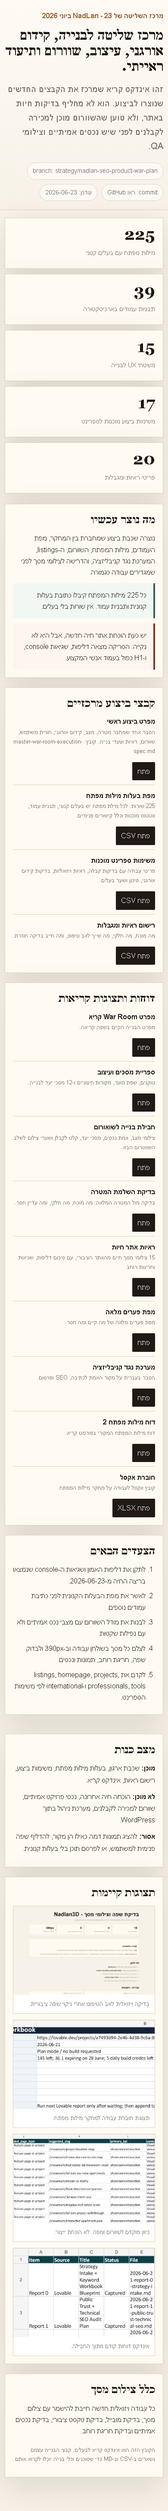
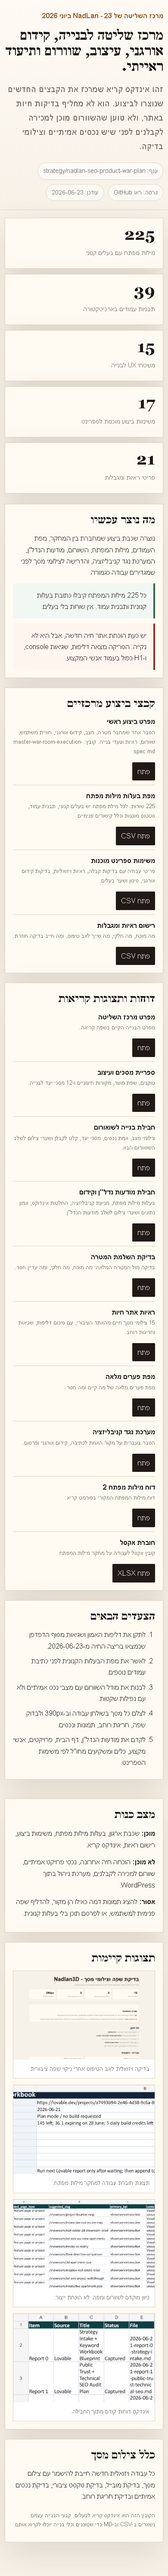
docs: add listings seo execution packet

Changed region(s): [[0.0308, 0.0, 0.9846, 0.9654], [0.5538, 0.5294, 0.5846, 0.5606], [0.5538, 0.436, 0.5846, 0.4671]]

diff --git a/strategy/war-room/listing-seo-execution-packet-rtl.html b/strategy/war-room/listing-seo-execution-packet-rtl.html
@@ -1,0 +1,174 @@
+<!doctype html>
+<html lang="he" dir="rtl">
+<head>
+  <meta charset="utf-8">
+  <meta name="viewport" content="width=device-width, initial-scale=1">
+  <title>NadLan - חבילת ביצוע למודעות נדל"ן וקידום אורגני</title>
+  <style>
+    :root{--paper:#f7f1e8;--panel:#fffaf2;--ink:#211915;--muted:#74685f;--line:#e2d6c7;--green:#0f332c;--gold:#a7793b;--red:#8f2e24;--soft:#efe5d7}
+    *{box-sizing:border-box}
+    body{margin:0;background:var(--paper);color:var(--ink);font-family:Arial,"Noto Sans Hebrew",sans-serif;line-height:1.75}
+    .wrap{max-width:1180px;margin:0 auto;padding:42px 24px 72px}
+    header{padding:48px 0 34px;border-bottom:1px solid var(--line);text-align:center}
+    .eyebrow{font-size:13px;color:var(--gold);font-weight:700;letter-spacing:0}
+    h1{font-family:Georgia,"Times New Roman",serif;font-size:clamp(34px,6vw,76px);line-height:1.03;margin:18px 0 16px;letter-spacing:0}
+    h2{font-family:Georgia,"Times New Roman",serif;font-size:clamp(26px,3vw,42px);line-height:1.16;margin:0 0 18px;letter-spacing:0}
+    h3{font-size:20px;margin:0 0 10px}
+    p{margin:0 0 14px}
+    a{color:var(--green);font-weight:700}
+    .intro{max-width:850px;margin:0 auto;color:var(--muted);font-size:18px}
+    .stats{display:grid;grid-template-columns:repeat(5,1fr);gap:12px;margin:28px 0}
+    .stat{background:var(--panel);border:1px solid var(--line);padding:20px;text-align:center}
+    .stat strong{display:block;font-family:Georgia,"Times New Roman",serif;font-size:38px}
+    section{margin-top:28px;background:var(--panel);border:1px solid var(--line);padding:28px}
+    .grid{display:grid;grid-template-columns:1fr 1fr;gap:18px}
+    .three{display:grid;grid-template-columns:repeat(3,1fr);gap:18px}
+    .card{background:#fffdf8;border:1px solid var(--line);padding:20px;min-height:100%}
+    .ok{border-right:5px solid var(--green)}
+    .warn{border-right:5px solid var(--gold)}
+    .bad{border-right:5px solid var(--red)}
+    .shot{background:#fff;border:1px solid var(--line);padding:12px}
+    .shot img{display:block;width:100%;height:auto;border:1px solid var(--line);background:#f4eadc}
+    .shot img.crop{height:620px;object-fit:cover;object-position:top}
+    .caption{font-size:14px;color:var(--muted);margin-top:10px}
+    .flow{display:grid;grid-template-columns:repeat(5,1fr);gap:10px;margin-top:14px}
+    .step{border:1px solid var(--line);background:var(--soft);padding:14px;min-height:118px}
+    .step b{display:block;color:var(--green);margin-bottom:6px}
+    table{width:100%;border-collapse:collapse;background:#fffdf8}
+    th,td{border:1px solid var(--line);padding:12px;text-align:right;vertical-align:top}
+    th{background:var(--soft);font-weight:800}
+    .pill{display:inline-block;border:1px solid var(--line);background:#fffdf8;padding:5px 9px;margin:3px;font-size:13px}
+    .source-list{display:grid;grid-template-columns:repeat(3,1fr);gap:10px}
+    .source-list a{display:block;border:1px solid var(--line);background:#fffdf8;padding:12px;text-decoration:none}
+    .small{font-size:14px;color:var(--muted)}
+    @media(max-width:760px){
+      .wrap{padding:24px 16px 48px}
+      header{text-align:right;padding-top:28px}
+      .stats,.grid,.three,.flow,.source-list{grid-template-columns:1fr}
+      section{padding:18px}
+      .step{min-height:auto}
+      .shot img.crop{height:760px}
+      table,thead,tbody,tr,td{display:block;width:100%}
+      thead{display:none}
+      tr{margin-bottom:12px;border:1px solid var(--line);background:#fffdf8}
+      td{border:0;border-bottom:1px solid var(--line)}
+      td:last-child{border-bottom:0}
+      td[data-label]::before{content:attr(data-label);display:block;font-weight:800;color:var(--green);margin-bottom:4px}
+    }
+  </style>
+</head>
+<body>
+  <div class="wrap">
+    <header>
+      <div class="eyebrow">2026-06-23 - NadLan - מודעות נדל"ן וקידום אורגני</div>
+      <h1>חבילת ביצוע שמונעת קניבליזציה לפני שמגדילים את מודעות הנדל"ן.</h1>
+      <p class="intro">NadLan לא בורח ממילות כסף. אבל כל עמוד כסף, מודעה, עיר, מדריך, כלי ואיש מקצוע חייבים בעלים קנוני, אמת נתונים ושער פרסום. אחרת עמוד חלש יכול לפגוע בעמוד שמכניס כסף.</p>
+    </header>
+
+    <div class="stats">
+      <div class="stat"><strong>225</strong><span>מילות מפתח ממופות</span></div>
+      <div class="stat"><strong>117</strong><span>עמודי כסף</span></div>
+      <div class="stat"><strong>108</strong><span>עמודי תמיכה</span></div>
+      <div class="stat"><strong>39</strong><span>תבניות עמוד</span></div>
+      <div class="stat"><strong>31</strong><span>עדיפות ראשונה</span></div>
+    </div>
+
+    <section>
+      <h2>מה ראינו בצילומי מודעות הנדל"ן</h2>
+      <div class="grid">
+        <div class="shot">
+          <img class="crop" src="../../handoff/codex/2026-06-23-public-language-cleanup/screenshots/listings--he--desktop-1440.png" alt="עמוד מודעות נדלן בדסקטופ">
+          <p class="caption">דסקטופ: יש מבנה כרטיסים ופילטרים בסיסיים, אבל התמונות והאספקה עדיין לא מוכחות כמלאי ציבורי אמיתי.</p>
+        </div>
+        <div class="shot">
+          <img class="crop" src="../../handoff/codex/2026-06-23-public-language-cleanup/screenshots/listings--he--mobile-390.png" alt="עמוד מודעות נדלן במובייל">
+          <p class="caption">מובייל: אין גלישה צדדית נראית, אבל חסרים מקור תמונה, טריות, מקור זמינות, ופירוט אמון שמאפשר להפוך את זה למנוע קידום.</p>
+        </div>
+      </div>
+    </section>
+
+    <section>
+      <h2>החלטת מוצר</h2>
+      <div class="grid">
+        <div class="card ok">
+          <h3>מה כן נבנה</h3>
+          <p>שוק נדל"ן עם עמודי כסף קנוניים, כרטיסי נכס אמינים, פילטרים שימושיים, דפי עיר ושכונה, דפי נכס, מפת קישורים פנימית ושערי פרסום לפני כל תוכן חדש.</p>
+          <span class="pill">בעלים קנוני</span>
+          <span class="pill">מקור נתונים</span>
+          <span class="pill">טריות</span>
+          <span class="pill">אמת תמונה</span>
+        </div>
+        <div class="card bad">
+          <h3>מה לא נבנה</h3>
+          <p>לא פותחים אינסוף עמודי פילטרים, לא מאנדקסים עמודים ריקים, לא משתמשים בתמונות כלליות כאילו הן הנכס, ולא נותנים לכותב או לכלי כתיבה לבחור מילת מפתח לבד.</p>
+        </div>
+      </div>
+    </section>
+
+    <section>
+      <h2>מסלול בנייה נכון</h2>
+      <div class="flow">
+        <div class="step"><b>01 רישום מילות מפתח</b>כל יעד מקבל keyword_id, בעלים קנוני וסטטוס מוכנות.</div>
+        <div class="step"><b>02 עמודי כסף</b>בונים רק כתובות קנוניות עם אספקה או ערך אמיתי.</div>
+        <div class="step"><b>03 פילטרים</b>פילטרים הם כלי שימוש. רק שילובים מאושרים הופכים לעמודים מאונדקסים.</div>
+        <div class="step"><b>04 כרטיסי אמון</b>כל כרטיס מציג מקור, טריות, סטטוס תמונה ופעולה ברורה.</div>
+        <div class="step"><b>05 שער צילום</b>כל שינוי נשמר עם צילומי 1440 ו־390 ובדיקת טקסט וקישורים.</div>
+      </div>
+    </section>
+
+    <section>
+      <h2>ספירת סיכון נוכחית</h2>
+      <div class="three">
+        <div class="card warn"><h3>114 משפטי</h3><p>שורות דורשות בדיקה משפטית או מקצועית לפני שהן יכולות להיות תוכן ציבורי חזק.</p></div>
+        <div class="card warn"><h3>64 מקור רשמי</h3><p>שורות מחכות למקור רשמי או אמין. בלי זה אסור להציג עובדות חזקות מדי.</p></div>
+        <div class="card warn"><h3>47 אימות</h3><p>שורות דורשות אימות אספקה, נתונים או כוונת חיפוש לפני אינדוקס.</p></div>
+      </div>
+    </section>
+
+    <section>
+      <h2>מסכי יעד לבנייה</h2>
+      <table>
+        <thead><tr><th>מסך</th><th>מה המשתמש רואה</th><th>מה חייב להיות מאחורי הקלעים</th><th>שער קידום</th></tr></thead>
+        <tbody>
+          <tr><td data-label="מסך">עמוד קנייה ראשי</td><td data-label="מה המשתמש רואה">חיפוש, מלאי, ערים מובילות, אמון, מדריכים וכלים.</td><td data-label="מאחורי הקלעים">בעלים קנוני, sitemap, אספקה, קישורים לעיר ושכונה.</td><td data-label="שער קידום">כתובת אחת בלבד למילת הכסף הראשית.</td></tr>
+          <tr><td data-label="מסך">עמוד עיר</td><td data-label="מה המשתמש רואה">דירות בעיר, נתוני שוק, פרויקטים, אנשי מקצוע ומדריכים.</td><td data-label="מאחורי הקלעים">אספקת עיר, טריות, canonical, קישורים לתמיכה.</td><td data-label="שער קידום">תמיכה חוזרת לעמוד העיר, לא מתחרה בו.</td></tr>
+          <tr><td data-label="מסך">כרטיס נכס</td><td data-label="מה המשתמש רואה">מחיר, חדרים, שטח, מיקום, תמונה, מקור ופעולה.</td><td data-label="מאחורי הקלעים">מקור תמונה, מקור מחיר, תאריך עדכון, סטטוס תשלום.</td><td data-label="שער קידום">הכרטיס לא מייצר מילת מפתח מתחרה.</td></tr>
+          <tr><td data-label="מסך">דף נכס</td><td data-label="מה המשתמש רואה">מידע מלא, תמונות, מפה, פנייה, אמון ותוכן סביבתי.</td><td data-label="מאחורי הקלעים">listing_id, keyword_id, schema, מקור, פנייה, מדידה.</td><td data-label="שער קידום">מאונדקס רק אם יש מספיק מידע אמין.</td></tr>
+          <tr><td data-label="מסך">מצב ריק</td><td data-label="מה המשתמש רואה">הסבר נקי, הרשמה לעדכון, קישורים חלופיים.</td><td data-label="מאחורי הקלעים">סף אספקה, סיבת noindex, יעד קנוני חלופי.</td><td data-label="שער קידום">עמוד דק לא נכנס לאינדקס.</td></tr>
+        </tbody>
+      </table>
+    </section>
+
+    <section>
+      <h2>כללי קידום שחייבים להיכנס לבנייה</h2>
+      <div class="three">
+        <div class="card ok"><h3>כתובת קנונית</h3><p>קישור פנימי, מפת אתר ותג קנוני חייבים להצביע לאותה כתובת קנונית.</p></div>
+        <div class="card ok"><h3>פילטרים</h3><p>שילובי פילטרים ריקים או דקים נשארים פנימיים או מחוץ לאינדקס. רק יעד מאושר הופך לעמוד כסף.</p></div>
+        <div class="card ok"><h3>סכמה</h3><p>סכמת JSON-LD משקפת רק תוכן גלוי, עדכני ואמיתי. אין סימון של תמונות או עובדות שלא רואים בעמוד.</p></div>
+      </div>
+    </section>
+
+    <section>
+      <h2>מקורות Google שנבדקו</h2>
+      <div class="source-list">
+        <a href="https://developers.google.com/search/docs/crawling-indexing/consolidate-duplicate-urls">Canonicalization</a>
+        <a href="https://developers.google.com/search/docs/specialty/ecommerce/designing-a-url-structure-for-ecommerce-sites">Ecommerce URL structure</a>
+        <a href="https://developers.google.com/search/docs/crawling-indexing/qualify-outbound-links">Outbound links</a>
+        <a href="https://developers.google.com/search/docs/appearance/structured-data/sd-policies">Structured data guidelines</a>
+        <a href="https://developers.google.com/search/docs/appearance/structured-data/intro-structured-data">Structured data intro</a>
+        <a href="https://developers.google.com/search/docs/specialty/international/localized-versions">Localized versions</a>
+      </div>
+      <p class="small">המקורות משמשים לקביעת שערי אינדוקס, canonical, noindex, קישורים ממומנים, סכמות ושפות. הם לא מחליפים את מפת הבעלות של NadLan.</p>
+    </section>
+
+    <section>
+      <h2>בדיקת קבלה לכל שינוי</h2>
+      <div class="three">
+        <div class="card"><h3>צילום</h3><p>דסקטופ 1440, מובייל 390, פילטר פתוח, פילטר פעיל, מצב ריק, כרטיס ממומן וכרטיס רגיל.</p></div>
+        <div class="card"><h3>טקסט</h3><p>סריקת טקסט מרונדר שאין בה שפת בנייה, הבטחות לא מאומתות או מילים פנימיות.</p></div>
+        <div class="card"><h3>קידום אורגני</h3><p>בדיקת בעלים קנוני, תג קנוני, מפת אתר, הוצאה מהאינדקס כשצריך, וקישור פנימי נכון.</p></div>
+      </div>
+    </section>
+  </div>
+</body>
+</html>

diff --git a/strategy/war-room/objective-completion-audit-rtl.html b/strategy/war-room/objective-completion-audit-rtl.html
@@ -2,11 +2,11 @@
 <article class='req ok'><h3>REQ-02 - תוצרי Lovable ואסטרטגיה חיצונית</h3><p><b>סטטוס:</b> קיים ומיובא</p><p><b>ראיה:</b> <code>handoff/lovable/2026-06-23-war-room-sync/source-manifest.md; handoff/lovable/2026-06-23-war-room-sync/exports/</code></p><p><b>מה זה מוכיח:</b> תוצרי Lovable מיובאים לריפו, וה-commit של strategy-hub מתועד.</p><p><b>פער:</b> לא היה commit חדש מ-Lovable בריצה הזאת. Lovable הוא כלי עזר, לא מקור האמת.</p><p><b>צעד הבא:</b> לייבא מחדש רק כשיש commit חדש ב-GitHub של strategy-hub.</p></article>
 <article class='req ok'><h3>REQ-03 - ארכיטקטורת עמודים</h3><p><b>סטטוס:</b> מוכח כמפרט נוכחי</p><p><b>ראיה:</b> <code>strategy/war-room/page-architecture-map.csv</code></p><p><b>מה זה מוכיח:</b> יש 39 תבניות עמודים: כסף, תמיכה, כלים, פרויקטים, אנשי מקצוע, משקיעים מחו&quot;ל ואמון.</p><p><b>פער:</b> זו מפת בנייה. היא לא מוכיחה שכל כתובת כבר קיימת באתר החי.</p><p><b>צעד הבא:</b> לקשור כל שינוי וכל תוכן ל-page_id.</p></article>
 <article class='req ok'><h3>REQ-04 - מיפוי מילת מפתח לעמוד</h3><p><b>סטטוס:</b> מוכח כמפרט נוכחי</p><p><b>ראיה:</b> <code>strategy/war-room/keyword-to-page-owner.csv</code></p><p><b>מה זה מוכיח:</b> כל 225 מילות המפתח קיבלו בעלים קנוני, כתובת, תבנית, סטטוס וכלל קישורים.</p><p><b>פער:</b> עדיין צריך אימות GSC/Semrush לפני תחזיות הכנסה ותיעדוף סופי.</p><p><b>צעד הבא:</b> להוסיף טבלאות GSC/Semrush ולעבור על סדר העדיפות.</p></article>
-<article class='req warn'><h3>REQ-05 - מפרט listings</h3><p><b>סטטוס:</b> קיים, לא בנוי</p><p><b>ראיה:</b> <code>strategy/10-listings-ux-spec.md; strategy/war-room/ux-build-spec.csv; strategy/war-room/sprint-ready-backlog.csv; strategy/war-room/design-system-screen-library-rtl.html</code></p><p><b>מה זה מוכיח:</b> דרישות card, search, detail, שקיפות מסחרית ומסך יעד מתועדות.</p><p><b>פער:</b> זה לא מוכיח שממשק listings ייצורי כבר נבנה או אושר ויזואלית באתר.</p><p><b>צעד הבא:</b> לבנות slice ראשון של listing card/search ולצלם mobile ו-desktop.</p></article>
+<article class='req warn'><h3>REQ-05 - מפרט מודעות נדל"ן</h3><p><b>סטטוס:</b> מפרט בנייה קיים, לא בנוי</p><p><b>ראיה:</b> <code>strategy/10-listings-ux-spec.md; strategy/war-room/listing-seo-execution-packet-rtl.html; strategy/war-room/listing-seo-execution-packet.csv; strategy/war-room/listing-seo-execution-packet-preview-mobile.png; strategy/war-room/ux-build-spec.csv; strategy/war-room/sprint-ready-backlog.csv</code></p><p><b>מה זה מוכיח:</b> דרישות מודעות, חיפוש ודפי נכס כוללות עכשיו חבילת ביצוע מצולמת עם בעלות מילות מפתח, מניעת קניבליזציה, אמון נתונים, החלטות אינדוקס ושערי צילום.</p><p><b>פער:</b> זה עדיין לא מוכיח שממשק ייצורי, מלאי מאומת, אישור משפטי או יישום חי כבר קיימים.</p><p><b>צעד הבא:</b> להשתמש בחבילת מודעות הנדל"ן כרשימת הבנייה הבאה ולצלם מסלולי עמוד, פילטר, דף נכס, מצב ריק ופנייה.</p></article>
 <article class='req warn'><h3>REQ-06 - מפרט פרויקט ושוורום</h3><p><b>סטטוס:</b> מפרט בנייה קיים, לא מוכן לקבלנים</p><p><b>ראיה:</b> <code>strategy/11-project-showroom-3d-spec.md; strategy/war-room/showroom-rebuild-execution-packet-rtl.html; strategy/war-room/showroom-rebuild-execution-packet.csv; strategy/war-room/showroom-rebuild-execution-packet-preview-mobile.png; docs/qa/screenshots/stage1-public-trust-current-2026-06-23/dimri-yama-sde-dov-mobile-390.png</code></p><p><b>מה זה מוכיח:</b> דרישות השוורום כוללות עכשיו חבילת בנייה מצולמת עם אמת נכסים, מסכי יעד, קלט לקבלן ושערי קבלה.</p><p><b>פער:</b> העמוד החי עדיין לא ברמת מכירה לקבלן. חסרים נכסים אמיתיים ויישום חי.</p><p><b>צעד הבא:</b> להשתמש בחבילת השואורום כרשימת הבנייה הבאה ולצלם כל מצב.</p></article>
-<article class='req ok'><h3>REQ-07 - כיוון עיצובי עם רפרנסים ותצוגות</h3><p><b>סטטוס:</b> מפרט נוכחי קיים, לא ייצור</p><p><b>ראיה:</b> <code>strategy/war-room/design-system-screen-library-rtl.html; strategy/war-room/design-system-screen-library.csv; strategy/war-room/design-system-screen-library-preview.png; strategy/lovable/preview-3d-map-showroom.png</code></p><p><b>מה זה מוכיח:</b> יש טוקנים, חוקי שפה ציבורית, מקורות מוצר חיצוניים, 12 מסכי יעד וצילומי בדיקה.</p><p><b>פער:</b> זה עדיין מפרט. הוא לא מחליף יישום WordPress, נכסי פרויקט אמיתיים או אישור משפטי ומיתוג סופי.</p><p><b>צעד הבא:</b> להשתמש בספריית המסכים כחוזה לבניית homepage, listings, projects ו-showroom.</p></article>
-<article class='req ok'><h3>REQ-08 - Backlog לביצוע</h3><p><b>סטטוס:</b> מוכח כמפרט נוכחי</p><p><b>ראיה:</b> <code>strategy/war-room/sprint-ready-backlog.csv; strategy/implementation-plan.csv</code></p><p><b>מה זה מוכיח:</b> יש 17 משימות ספרינט מוכנות ותוכנית יישום רחבה יותר.</p><p><b>פער:</b> Backlog הוא תוכנית עבודה, לא הוכחת ביצוע.</p><p><b>צעד הבא:</b> לבצע לפי סדר: אמון P0, אישור keyword registry, שוורום, listings, homepage.</p></article>
+<article class='req ok'><h3>REQ-07 - כיוון עיצובי עם רפרנסים ותצוגות</h3><p><b>סטטוס:</b> מפרט נוכחי קיים, לא ייצור</p><p><b>ראיה:</b> <code>strategy/war-room/design-system-screen-library-rtl.html; strategy/war-room/design-system-screen-library.csv; strategy/war-room/design-system-screen-library-preview.png; strategy/lovable/preview-3d-map-showroom.png</code></p><p><b>מה זה מוכיח:</b> יש טוקנים, חוקי שפה ציבורית, מקורות מוצר חיצוניים, 12 מסכי יעד וצילומי בדיקה.</p><p><b>פער:</b> זה עדיין מפרט. הוא לא מחליף יישום WordPress, נכסי פרויקט אמיתיים או אישור משפטי ומיתוג סופי.</p><p><b>צעד הבא:</b> להשתמש בספריית המסכים כחוזה לבניית דף הבית, מודעות הנדל"ן, פרויקטים ושואורום.</p></article>
+<article class='req ok'><h3>REQ-08 - רשימת ביצוע</h3><p><b>סטטוס:</b> מוכח כמפרט נוכחי</p><p><b>ראיה:</b> <code>strategy/war-room/sprint-ready-backlog.csv; strategy/implementation-plan.csv</code></p><p><b>מה זה מוכיח:</b> יש 17 משימות ספרינט מוכנות ותוכנית יישום רחבה יותר.</p><p><b>פער:</b> רשימת הביצוע היא תוכנית עבודה, לא הוכחת ביצוע.</p><p><b>צעד הבא:</b> לבצע לפי סדר: אמון בעדיפות ראשונה, אישור רישום מילות המפתח, שוורום, מודעות נדל"ן ודף הבית.</p></article>
 <article class='req ok'><h3>REQ-09 - תוצרים קריאים לבעלים</h3><p><b>סטטוס:</b> מוכח כמפרט נוכחי</p><p><b>ראיה:</b> <code>strategy/war-room/owner-output-index-rtl.html; strategy/war-room/objective-completion-audit-rtl.html; strategy/war-room/current-site-evidence-2026-06-23-rtl.html; strategy/war-room/design-system-screen-library-rtl.html</code></p><p><b>מה זה מוכיח:</b> יש HTML קריא לבעלים שמרכז את המפרט, הראיות, הפערים וספריית המסכים.</p><p><b>פער:</b> חלק מהקבצים נשארים CSV/MD בכוונה כדי שסוכנים וכלי בנייה יוכלו לקרוא אותם.</p><p><b>צעד הבא:</b> להמשיך ליצור תקצירי HTML בעברית לכל חבילת עבודה גדולה.</p></article>
-<article class='req warn'><h3>REQ-10 - מוכנות לבנייה צעד-אחר-צעד</h3><p><b>סטטוס:</b> חלקי</p><p><b>ראיה:</b> <code>strategy/war-room/master-war-room-execution-spec.md; strategy/war-room/sprint-ready-backlog.csv; strategy/war-room/design-system-screen-library.csv; strategy/war-room/showroom-rebuild-execution-packet.csv</code></p><p><b>מה זה מוכיח:</b> יש סדר פעולות, שערי קבלה, ספריית מסכים ותור ביצוע ספציפי לשואורום.</p><p><b>פער:</b> לא כל תנאי הקדם סגורים: אמון חי, נכסים אמיתיים, יישום חי ומערכת ניהול עדיין פתוחים.</p><p><b>צעד הבא:</b> להשתמש בשערי הספרינט, ספריית המסכים וחבילת השואורום כרשימת ביצוע מחייבת.</p></article>
+<article class='req warn'><h3>REQ-10 - מוכנות לבנייה צעד-אחר-צעד</h3><p><b>סטטוס:</b> חלקי</p><p><b>ראיה:</b> <code>strategy/war-room/master-war-room-execution-spec.md; strategy/war-room/sprint-ready-backlog.csv; strategy/war-room/design-system-screen-library.csv; strategy/war-room/showroom-rebuild-execution-packet.csv; strategy/war-room/listing-seo-execution-packet.csv</code></p><p><b>מה זה מוכיח:</b> יש סדר פעולות, שערי קבלה, ספריית מסכים, תור ביצוע לשואורום ותור ביצוע למודעות נדל"ן וקידום אורגני.</p><p><b>פער:</b> לא כל תנאי הקדם סגורים: אמון חי, נכסים אמיתיים, מלאי מאומת, יישום חי ומערכת ניהול עדיין פתוחים.</p><p><b>צעד הבא:</b> להשתמש בשערי הספרינט, ספריית המסכים, חבילת השואורום וחבילת מודעות הנדל"ן כרשימת ביצוע מחייבת.</p></article>
 <article class='req warn'><h3>REQ-11 - שיטה חוזרת לאתרים אחרים</h3><p><b>סטטוס:</b> חלקי</p><p><b>ראיה:</b> <code>handoff/shared-knowledge/skills/; C:/Users/janana/.codex/skills/nadlan-3d-ai-replication/SKILL.md</code></p><p><b>מה זה מוכיח:</b> יש skill ותיקיות ידע שמגדירים תהליך חוזר.</p><p><b>פער:</b> עדיין אין workflow בלחיצה אחת שמעתיק את זה לאתר WordPress אחר.</p><p><b>צעד הבא:</b> אחרי שנדלן מתייצב, לארוז bootstrap script ותבנית בעלים.</p></article></main></body></html>
 

diff --git a/strategy/war-room/owner-output-index-rtl.html b/strategy/war-room/owner-output-index-rtl.html
@@ -91,10 +91,10 @@
     <div class="wrap">
       <div class="eyebrow">מרכז השליטה של NadLan - 23 ביוני 2026</div>
       <h1>מרכז שליטה לבנייה, קידום אורגני, עיצוב, שוורום ותיעוד ראייתי.</h1>
-      <p class="lead">זהו אינדקס קריא שמרכז את הקבצים החדשים שנוצרו לביצוע. הוא לא מחליף בדיקות חיות באתר, ולא טוען שהשוורום מוכן למכירה לקבלנים לפני שיש נכסים אמיתיים וצילומי QA.</p>
+      <p class="lead">זהו אינדקס קריא שמרכז את הקבצים החדשים שנוצרו לביצוע. הוא לא מחליף בדיקות חיות באתר, ולא טוען שהשוורום מוכן למכירה לקבלנים לפני שיש נכסים אמיתיים וצילומי בדיקה.</p>
       <div class="meta">
-        <span class="pill">branch: strategy/nadlan-seo-product-war-plan</span>
-        <span class="pill">commit: ראו GitHub</span>
+        <span class="pill">ענף: strategy/nadlan-seo-product-war-plan</span>
+        <span class="pill">גרסה: ראו GitHub</span>
         <span class="pill">עודכן: 2026-06-23</span>
       </div>
     </div>
@@ -105,13 +105,13 @@
       <div class="stat"><b>39</b><span>תבניות עמודים בארכיטקטורה</span></div>
       <div class="stat"><b>15</b><span>משטחי UX לבנייה</span></div>
       <div class="stat"><b>17</b><span>משימות ביצוע מוכנות לספרינט</span></div>
-      <div class="stat"><b>20</b><span>פריטי ראיות ומגבלות</span></div>
+      <div class="stat"><b>21</b><span>פריטי ראיות ומגבלות</span></div>
     </div>
     <div class="grid">
       <div>
         <section>
           <h2>מה נוצר עכשיו</h2>
-          <p>נוצרה שכבת ביצוע שמחברת בין המחקר, מפת העמודים, מילות המפתח, השוורום, ה-listings, המערכת נגד קניבליזציה, והדרישה לצילומי מסך לפני שמגדירים עבודה כגמורה.</p>
+          <p>נוצרה שכבת ביצוע שמחברת בין המחקר, מפת העמודים, מילות המפתח, השוורום, מודעות הנדל"ן, המערכת נגד קניבליזציה, והדרישה לצילומי מסך לפני שמגדירים עבודה כגמורה.</p>
           <div class="ok">כל 225 מילות המפתח קיבלו כתובת בעלות קנונית ותבנית עמוד. אין שורות בלי בעלים.</div>
           <div class="warn">יש כעת הוכחת אתר חיה חדשה, אבל היא לא נקייה: הסריקה מצאה דליפות, שגיאות console, ו-H1 כפול בעמוד אנשי המקצוע.</div>
         </section>
@@ -127,13 +127,14 @@
         <section>
           <h2>דוחות ותצוגות קריאות</h2>
           <div class="links">
-            <a class="linkrow" href="nadlan-war-room-spec-rtl.html"><span><strong>מפרט War Room קריא</strong><small>מפרט הבנייה הקיים בשפה קריאה.</small></span><span class="open">פתח</span></a>
+            <a class="linkrow" href="nadlan-war-room-spec-rtl.html"><span><strong>מפרט מרכז השליטה</strong><small>מפרט הבנייה הקיים בשפה קריאה.</small></span><span class="open">פתח</span></a>
             <a class="linkrow" href="design-system-screen-library-rtl.html"><span><strong>ספריית מסכים ועיצוב</strong><small>טוקנים, שפת מוצר, מקורות חיצוניים ו-12 מסכי יעד לבנייה.</small></span><span class="open">פתח</span></a>
             <a class="linkrow" href="showroom-rebuild-execution-packet-rtl.html"><span><strong>חבילת בנייה לשואורום</strong><small>צילומי מצב, אמת נכסים, מסכי יעד, קלט לקבלן ושערי צילום לשלב השואורום הבא.</small></span><span class="open">פתח</span></a>
+            <a class="linkrow" href="listing-seo-execution-packet-rtl.html"><span><strong>חבילת מודעות נדל"ן וקידום</strong><small>בעלות מילות מפתח, מניעת קניבליזציה, החלטות אינדוקס, אמון נתונים ושערי צילום לשלב מודעות הנדל"ן.</small></span><span class="open">פתח</span></a>
             <a class="linkrow" href="objective-completion-audit-rtl.html"><span><strong>בדיקת השלמת המטרה</strong><small>בדיקה מול המטרה המלאה: מה מוכח, מה חלקי, ומה עדיין חסר.</small></span><span class="open">פתח</span></a>
             <a class="linkrow" href="current-site-evidence-2026-06-23-rtl.html"><span><strong>ראיות אתר חיות</strong><small>15 צילומי מסך חיים מהאתר הציבורי, עם סיכום דליפות, שגיאות וחריגות רוחב.</small></span><span class="open">פתח</span></a>
             <a class="linkrow" href="full-war-room-gap-map-rtl.html"><span><strong>מפת פערים מלאה</strong><small>מפת פערים מלאה של מה קיים ומה חסר.</small></span><span class="open">פתח</span></a>
-            <a class="linkrow" href="../source-of-truth-cannibalization-system-rtl.html"><span><strong>מערכת נגד קניבליזציה</strong><small>הסבר בעברית על מקור האמת לכתיבה, SEO ופרסום.</small></span><span class="open">פתח</span></a>
+            <a class="linkrow" href="../source-of-truth-cannibalization-system-rtl.html"><span><strong>מערכת נגד קניבליזציה</strong><small>הסבר בעברית על מקור האמת לכתיבה, קידום אורגני ופרסום.</small></span><span class="open">פתח</span></a>
             <a class="linkrow" href="../lovable/nadlan-report-2-keyword-master-rtl.html"><span><strong>דוח מילות מפתח 2</strong><small>דוח מילות המפתח המקורי בפורמט קריא.</small></span><span class="open">פתח</span></a>
             <a class="linkrow" href="../lovable/nadlan-lovable-keyword-workbook.xlsx"><span><strong>חוברת אקסל</strong><small>קובץ אקסל לעבודה על מחקר מילות המפתח.</small></span><span class="open">פתח XLSX</span></a>
           </div>
@@ -141,11 +142,11 @@
         <section>
           <h2>הצעדים הבאים</h2>
           <ol>
-            <li>לתקן את דליפות האמון ושגיאות ה-console שנמצאו בריצה החיה מ-2026-06-23.</li>
+            <li>לתקן את דליפות האמון ושגיאות מסוף הדפדפן שנמצאו בריצה החיה מ-2026-06-23.</li>
             <li>לאשר את מפת הבעלות הקנונית לפני כתיבת עמודים נוספים.</li>
             <li>לבנות את מודל השוורום עם מצבי נכס אמיתיים ולא עם נפילות שקטות.</li>
             <li>לצלם כל מסך בשולחן עבודה וב-390px ולבדוק שפה, חריגת רוחב, תמונות ונכסים.</li>
-            <li>לקדם את listings, homepage, projects, professionals, tools ו-international לפי משימות הספרינט.</li>
+            <li>לקדם את מודעות הנדל"ן, דף הבית, פרויקטים, אנשי מקצוע, כלים ומשקיעים מחו"ל לפי משימות הספרינט.</li>
           </ol>
         </section>
       </div>

diff --git a/strategy/war-room/listing-seo-execution-packet.md b/strategy/war-room/listing-seo-execution-packet.md
@@ -1,0 +1,61 @@
+# Listings and SEO Execution Packet
+
+Date: 2026-06-23
+
+Purpose: turn the recovered keyword universe, page architecture, listings prototype screenshots, and anti-cannibalization rule into a build-ready execution packet.
+
+## Current Evidence Read
+
+- The keyword map has 225 rows with canonical owners.
+- 117 rows are money pages and 108 are support pages.
+- 31 rows are P0 and 105 rows are P1.
+- 39 page templates exist in the page architecture map.
+- The current listings prototype renders desktop and 390px mobile without obvious horizontal overflow, but it is not production-ready because the images and supply are not verified and the SEO indexing model is not yet enforced.
+
+## Product Decision
+
+Listings are not a small catalog feature. They are a marketplace and SEO engine. The build must start with canonical ownership and data trust:
+
+1. One keyword row owns each indexable money page.
+2. Filters are user tools first, not unlimited indexable pages.
+3. Listing cards must show source, freshness, image truth, and paid-state disclosure where applicable.
+4. Empty or thin supply pages must not become indexed doorway pages.
+5. Support content links into money pages and does not compete with them.
+
+## Google Search References Checked
+
+- Canonicalization: https://developers.google.com/search/docs/crawling-indexing/consolidate-duplicate-urls
+- Ecommerce URL structure: https://developers.google.com/search/docs/specialty/ecommerce/designing-a-url-structure-for-ecommerce-sites
+- Outbound link qualification: https://developers.google.com/search/docs/crawling-indexing/qualify-outbound-links
+- Structured data guidelines: https://developers.google.com/search/docs/appearance/structured-data/sd-policies
+- Structured data intro: https://developers.google.com/search/docs/appearance/structured-data/intro-structured-data
+- Localized versions and hreflang: https://developers.google.com/search/docs/specialty/international/localized-versions
+
+## Build Backlog
+
+Use `listing-seo-execution-packet.csv` as the implementation queue. The first slices are:
+
+- LS-001 keyword registry enforcement
+- LS-002 canonical marketplace routes
+- LS-003 facets and filters
+- LS-004 listing card trust
+- LS-005 asset truth
+- LS-011 freshness and supply
+- LS-015 QA release gate
+
+## Screenshot Gates
+
+Every implementation PR must save:
+
+- desktop 1440 marketplace screenshot
+- mobile 390 marketplace screenshot
+- filter drawer open
+- applied filter state
+- empty result state
+- paid and non-paid cards side by side
+- listing detail first viewport
+- footer with CTA visible
+
+## Non-Production Warning
+
+The current prototype screenshots are evidence of direction and problems, not production proof. Do not present generic project images, incomplete freshness labels, or demo supply as final public inventory.

diff --git a/strategy/war-room/README.md b/strategy/war-room/README.md
@@ -9,6 +9,8 @@ Primary owner-facing artifacts:
 - `design-system-screen-library-visual-qa.md` - screenshot review note for the design-system screen library.
 - `showroom-rebuild-execution-packet-rtl.html` - Hebrew RTL showroom rebuild packet with live/prototype screenshots, asset-truth rules, target screens, contractor inputs, and screenshot gates.
 - `showroom-rebuild-execution-packet-visual-qa.md` - screenshot review note for the showroom rebuild packet.
+- `listing-seo-execution-packet-rtl.html` - Hebrew RTL listings and SEO packet with keyword ownership, anti-cannibalization, route decisions, data trust, and screenshot gates.
+- `listing-seo-execution-packet-visual-qa.md` - screenshot review note for the listings and SEO packet.
 - `objective-completion-audit-rtl.html` - Hebrew RTL audit against the full war-room objective, showing what is proven, partial, or still missing.
 - `current-site-evidence-2026-06-23-rtl.html` - Hebrew RTL summary of the fresh live public-site screenshot run from 2026-06-23.
 - `current-site-and-objective-audit-visual-qa.md` - screenshot review note for the fresh public evidence and objective audit.
@@ -24,6 +26,8 @@ Structured artifacts:
 - `design-system-screen-library.md` - detailed design system and implementation gate narrative.
 - `showroom-rebuild-execution-packet.csv` - structured showroom rebuild queue with asset-truth, visual-stage, unit-selection, map, interior, lead, performance, and SEO gates.
 - `showroom-rebuild-execution-packet.md` - implementation narrative for the next project showroom build slice.
+- `listing-seo-execution-packet.csv` - structured listings and SEO queue with registry, canonical routes, facets, card trust, asset truth, paid placement, schema, freshness, leads, and release gates.
+- `listing-seo-execution-packet.md` - implementation narrative for the next listings and SEO build slice.
 - `lovable-design-validation-prompt.md` - controlled no-spend prompt to use only if the owner chooses another Lovable review.
 - `keyword-to-page-owner.csv` - one canonical owner for every keyword row from the recovered Report 2 keyword universe.
 - `current-evidence-register.csv` - evidence, limitations, and next verification actions.

diff --git a/strategy/war-room/listing-seo-execution-packet-visual-qa.md b/strategy/war-room/listing-seo-execution-packet-visual-qa.md
@@ -1,0 +1,33 @@
+# Listings and SEO Execution Packet Visual QA
+
+Date: 2026-06-23
+
+Files reviewed:
+
+- `listing-seo-execution-packet-rtl.html`
+- `listing-seo-execution-packet-preview.png`
+- `listing-seo-execution-packet-preview-mobile.png`
+
+Screenshots captured:
+
+- Desktop: `strategy/war-room/listing-seo-execution-packet-preview.png`
+- Mobile 390px: `strategy/war-room/listing-seo-execution-packet-preview-mobile.png`
+
+Visual readout:
+
+- Desktop layout is readable and uses cropped evidence screenshots so the report remains scannable.
+- Mobile layout is one column and the target screen table converts into cards.
+- The report uses the existing listings prototype screenshots as evidence of direction and limitations, not as production proof.
+- The report clearly states that current listing images and supply are not yet verified as production inventory.
+
+Language scan:
+
+- The main owner-facing title and section language were changed from internal English wording to Hebrew owner-readable terms.
+- The visible public-risk language avoids implementation jargon where practical.
+- Technical SEO source names remain as source labels only.
+
+Remaining limits:
+
+- This is an execution packet, not a production listing implementation.
+- The current prototype does not prove real supply, image rights, source freshness, or paid-placement legal approval.
+- A runtime build still needs live screenshots for marketplace routes, listing detail pages, filter states, empty states, and lead flows.
